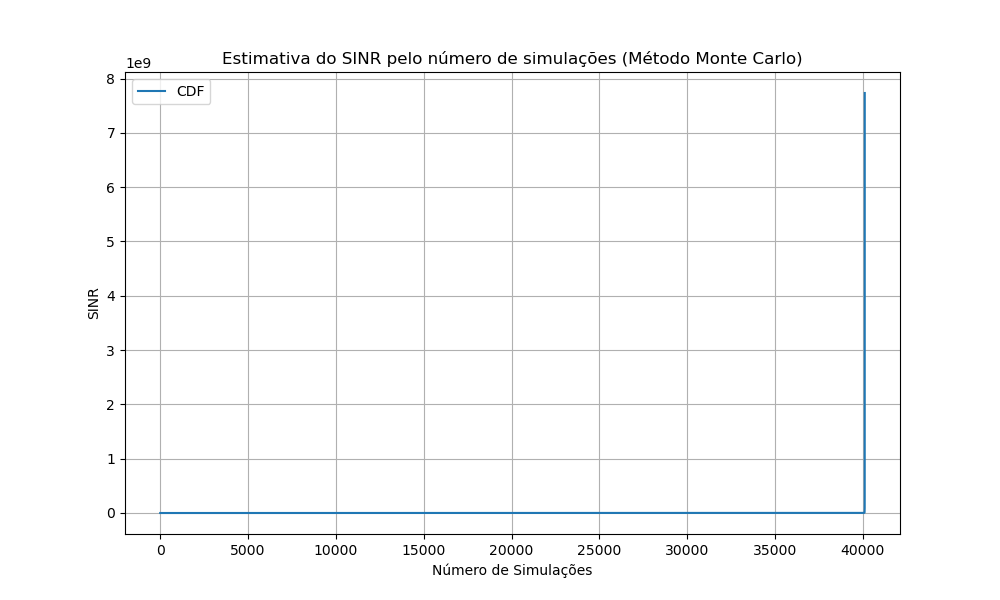
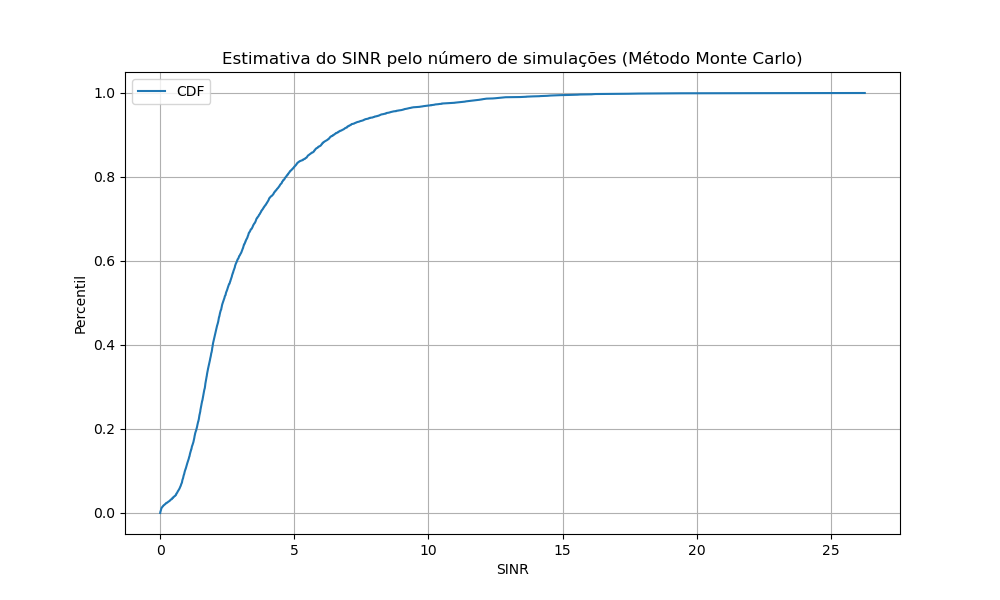
atualizacao exercise8

diff --git a/PART 1/exercises/exercise8.py b/PART 1/exercises/exercise8.py
@@ -38,15 +38,35 @@ def distribuir_AP(M: int) -> np.ndarray:
     return APs
 
 def dist_AP_UE(M: int, ue: UE) -> float:
-    aps = distribuir_AP(M)
+    aps = distribuir_AP(M)  # Mantém a lista fixa de APs
     dist = 1e4
+    ap_mais_proximo = None
+
+    # Encontra o AP mais próximo inicialmente
     for ap in aps:
         x = np.linalg.norm(np.array([ue.x, ue.y]) - np.array([ap.x, ap.y]))
         if x < dist:
             dist = x
-            ue.ap = ap
-            ap.channel = ue.channel
-            ue.dist = dist
+            ap_mais_proximo = ap
+
+    # Se a distância for menor que 1m, reposiciona a UE e recalcula para todos os APs
+    while dist < 1:
+        ue.x = np.random.randint(0, 1001)
+        ue.y = np.random.randint(0, 1001)
+        dist = 1e4
+        ap_mais_proximo = None
+
+        for ap in aps:
+            x = np.linalg.norm(np.array([ue.x, ue.y]) - np.array([ap.x, ap.y]))
+            if x < dist:
+                dist = x
+                ap_mais_proximo = ap
+
+    # Atualiza as informações da UE e do AP correspondente
+    ue.dist = dist
+    ue.ap = ap_mais_proximo
+    ap_mais_proximo.channel = ue.channel
+
     return dist
 
 # Função para calcular o pr dos UEs interferentes
@@ -92,12 +112,12 @@ def simular_experimento(M: int, N: int, sim: int) -> tuple:
             sinr.append(s)
             cap_canal.append(cap)
 
-            if s<1e-7:
+            if s<1e-5:
                 ue_small = ue
                 break_flag = True
                 break
 
-            if s>1e20:
+            if s>1e8:
                 ue_large = ue
                 break_flag = True
                 break
@@ -121,7 +141,7 @@ def plot_APs_UEs(M: int, ues: list, ue_small: UE, ue_large: UE) -> None:
     green_patch = mpatches.Patch(color='green', label='Very large SINR')
         
     if ue_small is not None:
-        plt.scatter(ue_small.x, ue_small.y, marker='s', color='yellow')
+        plt.scatter(ue_small.x, ue_small.y, marker='s', color='yellow', label='UE (very large value)')
         plt.legend(handles=[yellow_patch])
     elif ue_large is not None:
         plt.scatter(ue_large.x, ue_large.y, marker='s', color='green', label='UE (very large value)')
@@ -141,36 +161,19 @@ def plot_APs_UEs(M: int, ues: list, ue_small: UE, ue_large: UE) -> None:
     plt.show()
     
 def plot_cdf(cdf: np.ndarray, tipo: str = 'capacity') -> None:
-    cdf.sort()
     plt.figure(figsize=(10, 6))
-    plt.plot(range(1, len(cdf) + 1), cdf, label='CDF')
-    '''plt.axhline(y=np.percentile(cdf, 1), color='r', linestyle='--', label='1th percentil')
-    plt.axhline(y=np.percentile(cdf, 99), color='g', linestyle='--', label='99th percentil')'''
 
     if tipo == 'sinr':
+        cdf = [np.log2(1 + a) for a in np.ravel(cdf)]
+        cdf.sort()
+        percentis = np.linspace(0, 1, len(cdf))
+        plt.plot(cdf, percentis, label='CDF')
         plt.title('Estimativa do SINR pelo número de simulações (Método Monte Carlo)')
-        plt.ylabel('SINR')
+        plt.xlabel('SINR')
     else:
         plt.title('Estimativa da Capacidade do Canal pelo número de simulações (Método Monte Carlo)')
-        plt.ylabel('Capacidade do Canal (Mbps)')
-    plt.xlabel('Número de Simulações')
-    plt.legend()
-    plt.grid(True)
-    plt.show()
-
-def plot_cdfs(cdf: list, tipo: str = 'capacity') -> None:
-    plt.figure(figsize=(10, 6))
-    for i in range(len(cdf)):
-        cdf[i].sort()
-        plt.plot(range(1, len(cdf[i]) + 1), cdf[i], label=f'{i+1} canal(is)')
-
-    if tipo == 'sinr':
-        plt.title('Estimativa do SINR pelo número de simulações (Método Monte Carlo)')
-        plt.ylabel('SINR')
-    else:
-        plt.title('Estimativa da Capacidade do Canal pelo número de simulações (Método Monte Carlo)')
-        plt.ylabel('Capacidade do Canal (Mbps)')
-    plt.xlabel('Número de Simulações')
+        plt.xlabel('Capacidade do Canal (Mbps)')
+    plt.ylabel('Percentil')
     plt.legend()
     plt.grid(True)
     plt.show()
